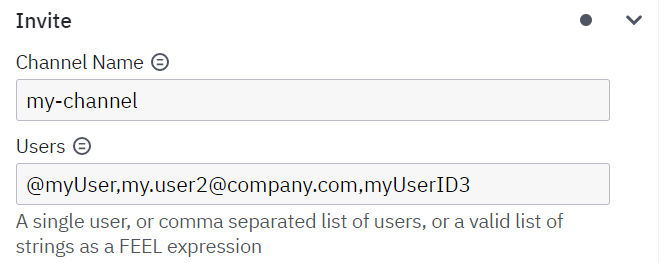
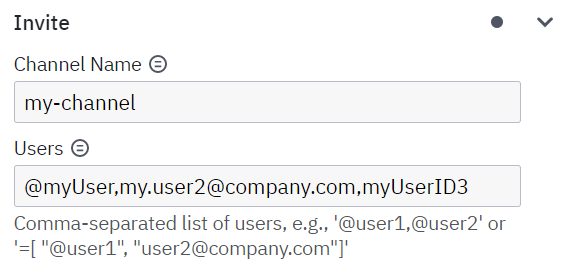
chore(connectors): change Slack invite to channel images and details

diff --git a/versioned_docs/version-8.1/components/connectors/out-of-the-box-connectors/slack.md b/versioned_docs/version-8.1/components/connectors/out-of-the-box-connectors/slack.md
@@ -40,8 +40,6 @@ To create a channel, take the following steps:
 
 ### Invite user to channel
 
-To invite users to a channel, take the following steps:
-
 1. Set **Method** to `Invite to Channel`.
 2. Set the **Channel Name**:
    1. Channel name can be up to 80 characters and may contain lowercase letters, digits, and symbols `-` and `_`.
@@ -51,9 +49,12 @@ To invite users to a channel, take the following steps:
    2. A comma separated list of users (for example: `@myUser, my.user@company.com, ABCDEF12345`).
    3. FEEL expression. In this case you can provide a valid list of strings (for example: `["@myUser", "my.user@company.com", "ABCDEF12345"]`).
    - Formats:
-     - If the provided username starts with an `@` symbol, it will be handled as user name.
-     - If the provided username is in an email format, it will be handled as an email.
-     - If the provided username doesn't start with an `@`, and isn't an email, it will be handled as a user id.
+     - If a username starts with an `@` symbol, it will be handled as user name.
+     - If a username is in an email format, it will be handled as an email.
+     - If a username doesn't start with an `@`, and isn't an email, it will be handled as a user id.
+   - If a null input or an input which is not a type of String or a Collection provided, you will get an Exception.
+   - If all username is provided as any other type than a String, you will get an Exception.
+   - If one of the usernames is provided as any other type than a String, it will be omitted.
    - If you provide a channel name it will be omitted since it is not possible to invite a channel to an other channel.
 
 ![slack connector invite to channel](../img/connectors-slack-invite-to-channel.png)

diff --git a/docs/components/connectors/out-of-the-box-connectors/slack.md b/docs/components/connectors/out-of-the-box-connectors/slack.md
@@ -51,9 +51,12 @@ To invite users to a channel, take the following steps:
    2. A comma separated list of users (for example: `@myUser, my.user@company.com, ABCDEF12345`).
    3. FEEL expression. In this case you can provide a valid list of strings (for example: `["@myUser", "my.user@company.com", "ABCDEF12345"]`).
    - Formats:
-     - If the provided username starts with an `@` symbol, it will be handled as user name.
-     - If the provided username is in an email format, it will be handled as an email.
-     - If the provided username doesn't start with an `@`, and isn't an email, it will be handled as a user id.
+     - If a username starts with an `@` symbol, it will be handled as user name.
+     - If a username is in an email format, it will be handled as an email.
+     - If a username doesn't start with an `@`, and isn't an email, it will be handled as a user id.
+   - If a null input or an input which is not a type of String or a Collection provided, you will get an Exception.
+   - If all username is provided as any other type than a String, you will get an Exception.
+   - If one of the usernames is provided as any other type than a String, it will be omitted.
    - If you provide a channel name it will be omitted since it is not possible to invite a channel to an other channel.
 
 ![slack connector invite to channel](../img/connectors-slack-invite-to-channel.png)

diff --git a/versioned_docs/version-8.0/components/connectors/out-of-the-box-connectors/slack.md b/versioned_docs/version-8.0/components/connectors/out-of-the-box-connectors/slack.md
@@ -51,9 +51,12 @@ To invite users to a channel, take the following steps:
    2. A comma separated list of users (for example: `@myUser, my.user@company.com, ABCDEF12345`).
    3. FEEL expression. In this case you can provide a valid list of strings (for example: `["@myUser", "my.user@company.com", "ABCDEF12345"]`).
    - Formats:
-     - If the provided username starts with an `@` symbol, it will be handled as user name.
-     - If the provided username is in an email format, it will be handled as an email.
-     - If the provided username doesn't start with an `@`, and isn't an email, it will be handled as a user id.
+     - If a username starts with an `@` symbol, it will be handled as user name.
+     - If a username is in an email format, it will be handled as an email.
+     - If a username doesn't start with an `@`, and isn't an email, it will be handled as a user id.
+   - If a null input or an input which is not a type of String or a Collection provided, you will get an Exception.
+   - If all username is provided as any other type than a String, you will get an Exception.
+   - If one of the usernames is provided as any other type than a String, it will be omitted.
    - If you provide a channel name it will be omitted since it is not possible to invite a channel to an other channel.
 
 ![slack connector invite to channel](../img/connectors-slack-invite-to-channel.png)
